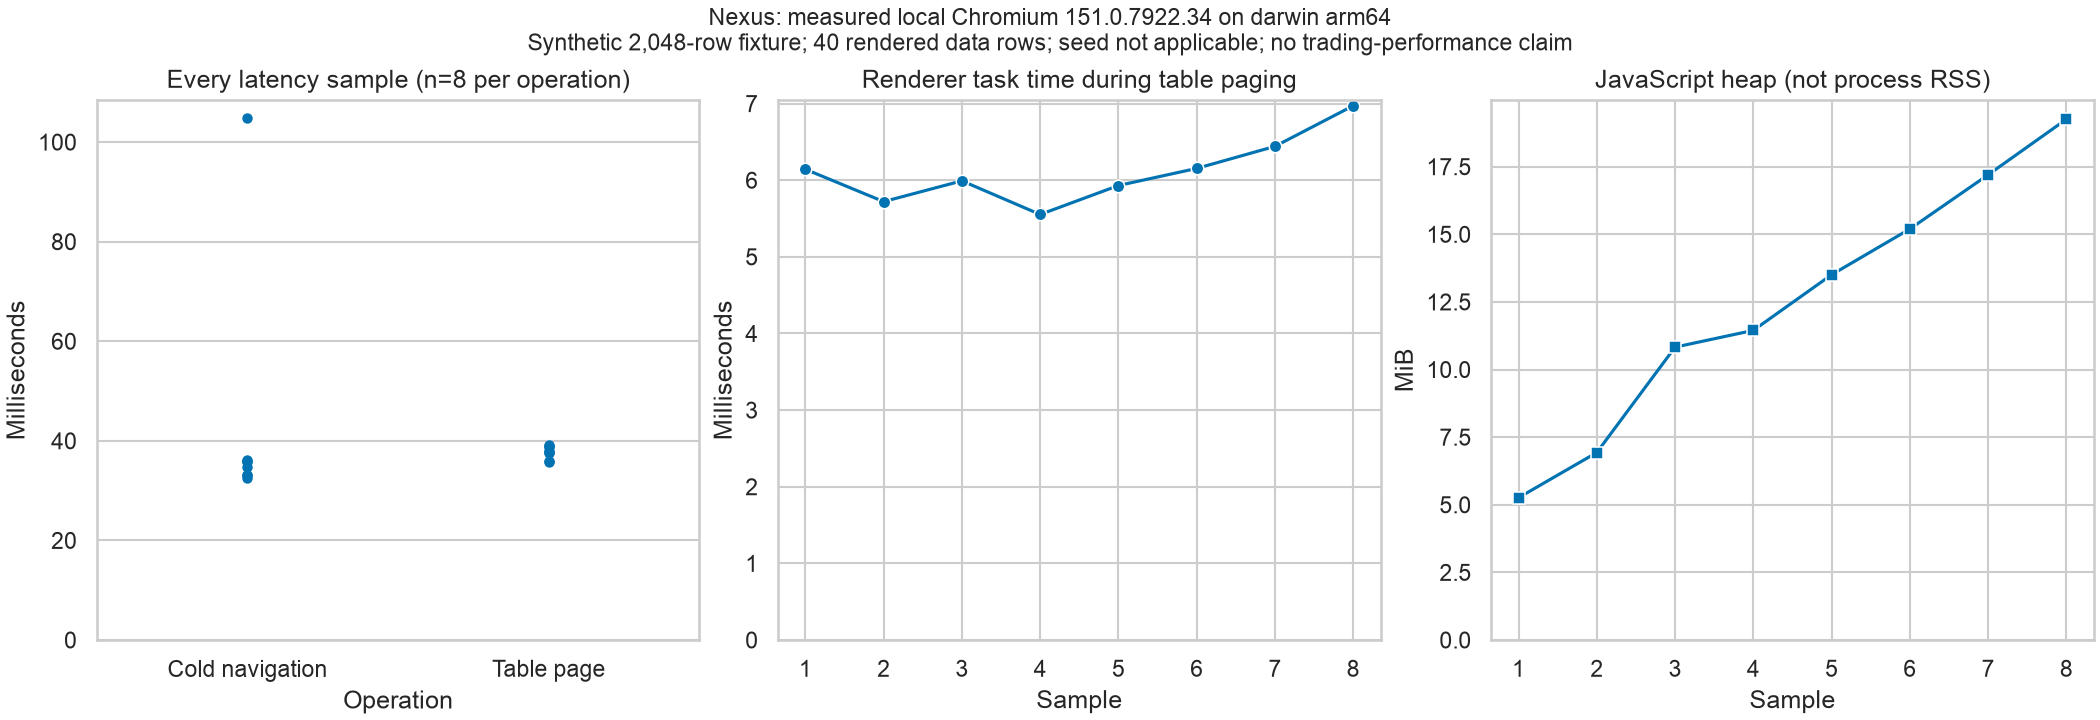
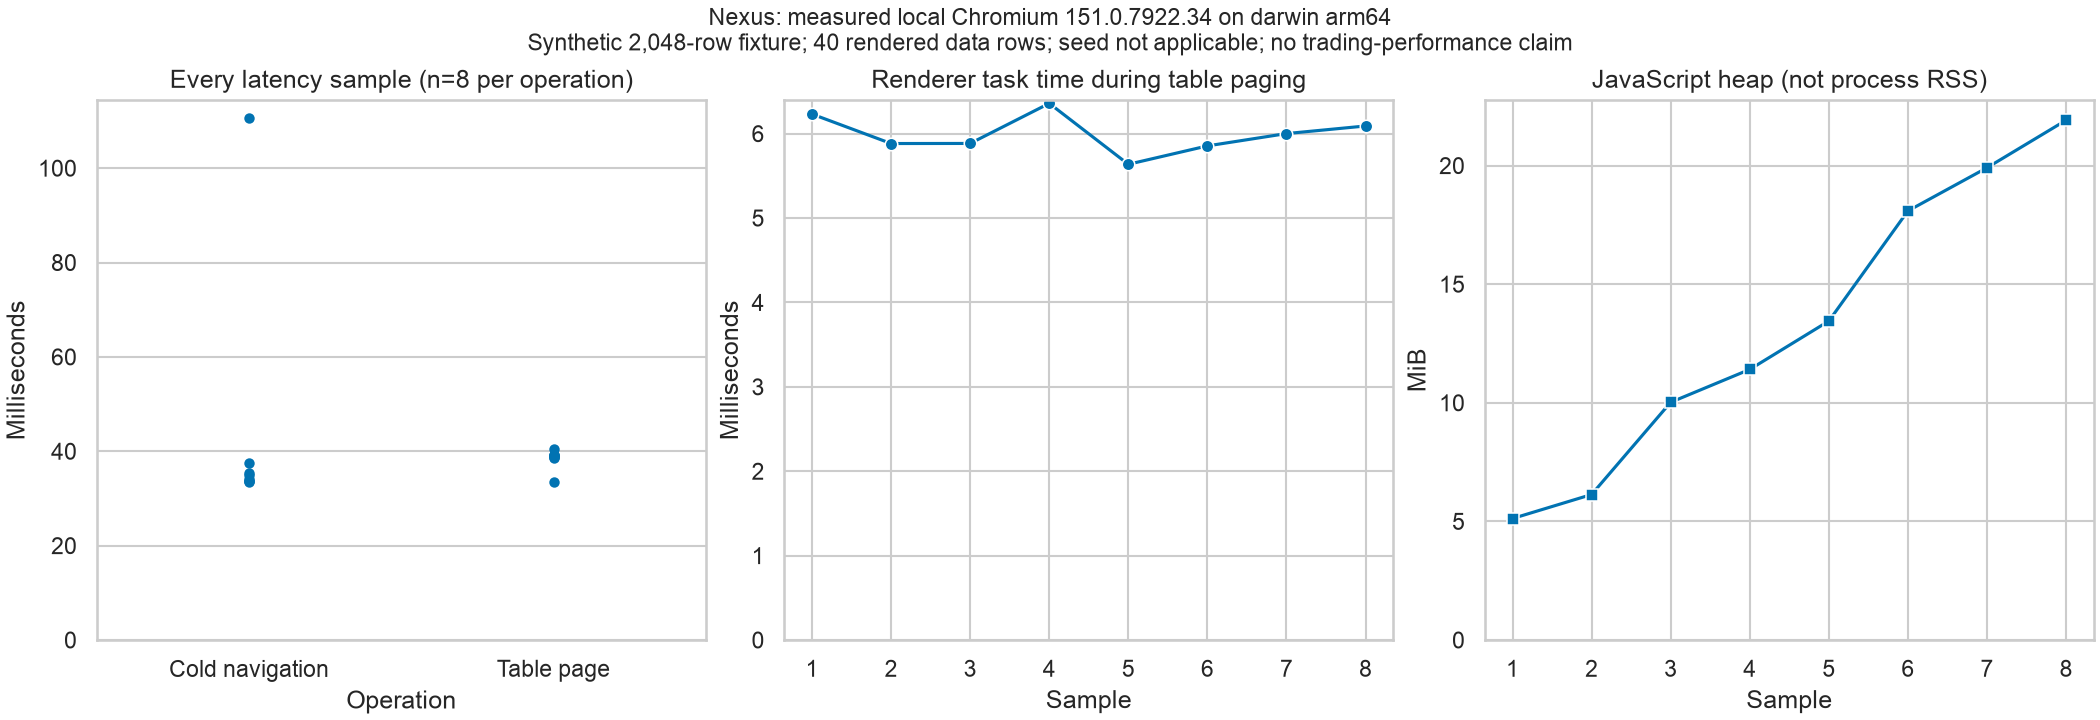
fix(nexus): distinguish all four supported chart series accessibly

diff --git a/apps/nexus/e2e/workstation.spec.ts b/apps/nexus/e2e/workstation.spec.ts
@@ -1,5 +1,6 @@
 import { test, expect, type Page } from "@playwright/test";
 import AxeBuilder from "@axe-core/playwright";
+import { catalog, evidence, job } from "../tests/fixtures";
 
 /** Catalog starts two real isolated workers; await its existing transport boundary. */
 async function openWorkstation(page: Page) {
@@ -102,4 +103,62 @@ test("keyboard, responsive themes, reduced motion and deterministic appearance",
       );
     }
   }
+});
+
+test("four model lines and legend swatches remain distinct without color", async ({
+  page,
+}) => {
+  const tables = Array.from({ length: 4 }, (_, index) => ({
+    name: `equity_model${String(index)}`,
+    description: "Synthetic four-series boundary",
+    columns: [
+      { name: "date", unit: "UTC date" },
+      { name: "cumulative_return", unit: "fraction" },
+      { name: "drawdown", unit: "fraction" },
+    ],
+    rows: [
+      ["2026-01-01", 0, 0],
+      ["2026-01-02", (index + 1) / 10, -index / 10],
+    ],
+    total_rows: 2,
+  }));
+  await page.route("**/api/v1/catalog", (route) =>
+    route.fulfill({ json: catalog }),
+  );
+  await page.route("**/api/v1/jobs", (route) =>
+    route.fulfill({ json: { schema_version: "1.0.0", jobs: [job] } }),
+  );
+  await page.route("**/api/v1/jobs/*/evidence", (route) =>
+    route.fulfill({ json: { ...evidence, tables } }),
+  );
+  await openWorkstation(page);
+  await page.getByRole("button", { name: "Inspect aaaaaaaa" }).click();
+  const chart = page.getByRole("img", { name: /^Net cumulative/ });
+  await expect(chart).toBeVisible();
+  const patterns = await chart
+    .locator("path")
+    .evaluateAll((paths) =>
+      paths.map((path) => getComputedStyle(path).strokeDasharray),
+    );
+  expect(new Set(patterns).size).toBe(4);
+  const legends = page.locator(".chart-legend").first().locator("path");
+  expect(
+    await legends.evaluateAll((paths) =>
+      paths.map((path) => getComputedStyle(path).strokeDasharray),
+    ),
+  ).toEqual(patterns);
+  const swatch = await page.locator(".swatch").first().boundingBox();
+  expect(swatch?.height).toBe(8);
+  expect(swatch?.width).toBe(26);
+  expect(
+    (
+      await new AxeBuilder({ page })
+        .withTags(["wcag2a", "wcag2aa", "wcag21aa", "wcag22aa"])
+        .analyze()
+    ).violations,
+  ).toEqual([]);
+  await page.screenshot({
+    path: test.info().outputPath("four-series.png"),
+    fullPage: true,
+  });
 });

diff --git a/apps/nexus/tests/components.test.tsx b/apps/nexus/tests/components.test.tsx
@@ -67,6 +67,26 @@ describe("evidence projections", () => {
     render(<EquityChart tables={[]} title="Net return" metric="return" />);
     expect(screen.getByText("Net return: unavailable.")).toBeVisible();
   });
+  it("distinguishes the strategy and all three allowed baselines in chart and legend", () => {
+    const tables = Array.from({ length: 4 }, (_, index) => ({
+      name: `equity_model${String(index)}`,
+      description: "Four-series boundary",
+      columns: [{ name: "return", unit: "fraction" }],
+      rows: [[0], [index + 1]],
+      total_rows: 2,
+    }));
+    const { container } = render(
+      <EquityChart tables={tables} title="Net return" metric="return" />,
+    );
+    const paths = [...container.querySelectorAll('svg[role="img"] path')];
+    const legends = [...container.querySelectorAll(".chart-legend path")];
+    expect(new Set(paths.map((path) => path.getAttribute("class"))).size).toBe(
+      4,
+    );
+    expect(legends.map((path) => path.getAttribute("class"))).toEqual(
+      paths.map((path) => path.getAttribute("class")),
+    );
+  });
   it("windows 2048 records, preserves missing values and bounds DOM rows", () => {
     render(
       <TableView

diff --git a/apps/nexus/src/EquityChart.tsx b/apps/nexus/src/EquityChart.tsx
@@ -86,7 +86,7 @@ export function EquityChart({
           <path
             key={item.name}
             d={item.path}
-            className={`series series-${String(index % 3)}`}
+            className={`series series-${String(index % 4)}`}
           />
         ))}
         <text x="70" y="235">
@@ -99,7 +99,12 @@ export function EquityChart({
       <ul className="chart-legend">
         {chart.series.map((item, index) => (
           <li key={item.name}>
-            <span className={`swatch series-${String(index % 3)}`} />
+            <svg className="swatch" viewBox="0 0 26 8" aria-hidden="true">
+              <path
+                d="M0,4 H26"
+                className={`series series-${String(index % 4)}`}
+              />
+            </svg>
             {item.name} · {item.values.length} retained sessions
           </li>
         ))}

diff --git a/apps/nexus/src/style.css b/apps/nexus/src/style.css
@@ -22,7 +22,7 @@
 .chart {
   margin: 24px 0;
 }
-.chart svg {
+.chart > svg {
   width: 100%;
   min-height: 180px;
 }
@@ -42,13 +42,15 @@
   stroke: var(--text);
   stroke-dasharray: 8 4;
   border-color: var(--text);
-  border-top-style: dashed !important;
 }
 .series-2 {
   stroke: var(--muted);
   stroke-dasharray: 2 4;
   border-color: var(--muted);
-  border-top-style: dotted !important;
+}
+.series-3 {
+  stroke: var(--accent);
+  stroke-dasharray: 12 3 2 3;
 }
 .zero-line {
   stroke: var(--line);
@@ -62,8 +64,7 @@
 .swatch {
   display: inline-block;
   width: 26px;
-  border-top-width: 2px;
-  border-top-style: solid;
+  height: 8px;
   margin-right: 8px;
 }
 * {

diff --git a/docs/nexus.md b/docs/nexus.md
@@ -99,8 +99,9 @@ uv run python apps/nexus/scripts/plot-evidence.py \
 ![Local browser resource samples](evidence/nexus/resources.png)
 
 Local validation: 60 focused Python boundary/CLI/API/real-worker integration tests;
-38 frontend tests with 92.02% branch coverage; real-worker browser workflow,
-axe, four theme/viewport visual goldens, and bounded-table resource checks.
+39 frontend tests with 92.02% branch coverage; real-worker browser workflow,
+axe, four theme/viewport visual goldens, bounded-table resource checks, and a
+four-series chart/legend boundary test (four browser tests total).
 Ten retained AlphaForge dashboard tests and 82 Signalattice console tests passed
 in their independent environments. The first dashboard invocation used the root
 environment and failed to import scikit-learn; the package environment corrected
@@ -121,3 +122,11 @@ check its HTTP success, then assert rendered readiness. The generic DOM timeout
 remains 10 seconds and retries remain disabled. Synthetic browser-resource
 fixtures retain their separate 5-second cold-navigation budget. CI retains
 catalog status/timing, browser JSON and failure traces for seven days.
+
+### Four-series chart accessibility
+
+The request allows one strategy and up to three baselines. All four lines use
+distinct solid/dash/dot/dash-dot patterns, with matching SVG legend swatches.
+The browser regression checks computed patterns and swatch dimensions, plus axe.
+The [inspected four-series fixture](evidence/nexus/four-series.png) and refreshed
+resource samples are synthetic; the evidence manifest binds their bytes.
